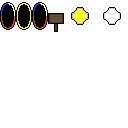
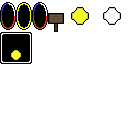
World transitions

Changed region(s): [[0.0, 0.25, 0.25, 0.5]]

diff --git a/Scripts/Global/GameState.cs b/Scripts/Global/GameState.cs
@@ -9,7 +9,7 @@ public partial class GameState : Node
     // Level loader stuff
     private readonly string levelsPathStart = "res://Scenes/Worlds/";
     private readonly Dictionary<WorldID, string[]> levels = new() { // Turn this to json?
-        { WorldID.PurpleForest, new string[] { "HUB", "0", "1", "2" } },
+        { WorldID.PurpleForest, new string[] { "HUB", "0", "1", "2", "3", "4", "5" } },
         { WorldID.DistantShoreline, new string[] { "HUB", "0" } } 
     };
 
@@ -24,7 +24,7 @@ public partial class GameState : Node
     public Dictionary<WorldID, Dictionary<string, bool>> CompletedLevels { get; private set; } = new(); // Initialized in _Ready if first game launch, or from save
 
     public WorldID CurrentWorld { get; private set; } = WorldID.PurpleForest;
-    public string CurrentLevel { get; private set; } = "HUB"; // Current level ID
+    public string CurrentLevel { get; private set; } = "0"; // Current level ID
     public Vector2 PlayerHubPosition { get; set; } = Vector2.Zero; // Updated in LevelTeleport
 
 
@@ -32,11 +32,12 @@ public partial class GameState : Node
     public int NoCompletedLevels { get; private set; } = 0;
     public bool IsGamePaused { get; set; } = false; // Pause is set in pause menu
     public bool IsLevelTransitionPlaying { get; set; } = false;
+    public WorldID PreviousWorld { get; private set; }
 
 
     // METHODS ===========================================================================================================
     private CustomSignals customSignals; // singleton
-    public override void _Ready()
+    public override void _EnterTree()
     {
         customSignals = GetNode<CustomSignals>("/root/CustomSignals");
 
@@ -53,6 +54,9 @@ public partial class GameState : Node
                     CompletedLevels[world.Key].Add(levelID, false);
             }
         }
+
+        // Initialize previous world, TODO: do this in save file
+        PreviousWorld = CurrentWorld;
     }
 
     public void CompleteCurrentLevel()
@@ -79,8 +83,11 @@ public partial class GameState : Node
 
     public void LoadWorld(WorldID world)
     {
+        PreviousWorld = CurrentWorld;
         CurrentWorld = world;
         LoadLevel("HUB");
+        // World enter player position set in WorldEntrance because it was easier that way
+        WorldEntrance.setPlayerWorldEnterPosition = true;
     }
 
     public void LoadLevel(string id)
@@ -97,15 +104,15 @@ public partial class GameState : Node
     public void LoadHubLevel()
     {
         LoadLevel("HUB");
-        SetPlayerHubPosition();
+        SetPlayerPosition(PlayerHubPosition);
     }
 
-    private async void SetPlayerHubPosition()
+    public async void SetPlayerPosition(Vector2 position)
     {
-        if (PlayerHubPosition == Vector2.Zero) return;
+        if (position == Vector2.Zero) return;
         await ToSignal(GetTree(), "process_frame");
-        customSignals.EmitSignal(CustomSignals.SignalName.SetPlayerPosition, PlayerHubPosition);
-        customSignals.EmitSignal(CustomSignals.SignalName.SetCameraPosition, PlayerHubPosition);
+        customSignals.EmitSignal(CustomSignals.SignalName.SetPlayerPosition, position);
+        customSignals.EmitSignal(CustomSignals.SignalName.SetCameraPosition, position);
     }
 
     public void LoadMenu()

diff --git a/Scripts/Entities/Interactable/WorldEntrance.cs b/Scripts/Entities/Interactable/WorldEntrance.cs
@@ -5,22 +5,26 @@ using System;
 public partial class WorldEntrance : Interactable
 {
     // Singletons
-    private CustomSignals customSignals;
+    //private CustomSignals customSignals;
     private GameState gameState;
     private LevelTransitions levelTransitions;
 
     private AnimatedSprite2D outlineSprite;
+    private Node2D playerRespawnPosition;
 
     [Export] WorldData worldToTeleportTo;
+
+    public static bool setPlayerWorldEnterPosition = false;
 
     public override void _Ready()
     {
         base._Ready();
 
-        customSignals = GetNode<CustomSignals>("/root/CustomSignals");
+        //customSignals = GetNode<CustomSignals>("/root/CustomSignals");
         gameState = GetNode<GameState>("/root/GameState");
         levelTransitions = GetNode<CanvasLayer>("/root/Transitions") as LevelTransitions;
         outlineSprite = GetNode<AnimatedSprite2D>("Foreground");
+        playerRespawnPosition = GetNode<Node2D>("PlayerRespawnPosition");
 
         if (gameState.HasWorldBeenCompleted(worldToTeleportTo.ID)) // Yellow outline
         {
@@ -30,18 +34,21 @@ public partial class WorldEntrance : Interactable
         {
             outlineSprite.Play("NotCompleted");
         }
+
+        // Change player position according to world they are coming from
+        // setPlayerWorldEnterPosition set to true in GameState
+        if (setPlayerWorldEnterPosition && worldToTeleportTo.ID == gameState.PreviousWorld)
+        {
+            setPlayerWorldEnterPosition = false;
+            gameState.SetPlayerPosition(playerRespawnPosition.GlobalPosition);
+        }
     }
 
     protected override void Interact()
     {
         base.Interact();
 
-        gameState.LoadWorld(worldToTeleportTo.ID);
+        levelTransitions.StartWorldTransition(worldToTeleportTo);
     }
 
-    protected override void PlayerExited()
-    {
-        base.PlayerExited();
-
-    }
 }

diff --git a/Scripts/UI/LevelTransitions.cs b/Scripts/UI/LevelTransitions.cs
@@ -9,7 +9,10 @@ public partial class LevelTransitions : CanvasLayer
 
     [Export] private Label levelTextTopLabel;
     [Export] private Label levelTextBottomLabel;
+
     private LevelData transitionLevel;
+    private WorldData transitionWorld;
+
     private ScreenTransition currentTransition;
 
 	public override void _Ready()
@@ -72,6 +75,19 @@ public partial class LevelTransitions : CanvasLayer
         animationPlayer.Play("LevelExit");
     }
 
+    public void StartWorldTransition(WorldData worldToTransitionTo)
+    {
+        currentTransition = ScreenTransition.worldEntry;
+        gameState.IsLevelTransitionPlaying = true;
+        transitionWorld = worldToTransitionTo;
+        Show();
+
+        levelTextBottomLabel.Show();
+        levelTextBottomLabel.Text = worldToTransitionTo.Name;
+
+        animationPlayer.Play("LevelExit");
+    }
+
     void _onAnimationPlayerAnimationFinished(string animationName)
 	{
         if (animationName == "LevelExit") // End of first part of transition
@@ -92,6 +108,10 @@ public partial class LevelTransitions : CanvasLayer
 
                 case ScreenTransition.levelEntry:
                     gameState.LoadLevel(transitionLevel.ID);
+                    EndLevelTransitionAfterSeconds(1.5f); break;
+
+                case ScreenTransition.worldEntry:
+                    gameState.LoadWorld(transitionWorld.ID);
                     EndLevelTransitionAfterSeconds(1.5f); break;
             }
         }

diff --git a/Scripts/Player/Player.cs b/Scripts/Player/Player.cs
@@ -301,7 +301,8 @@ public partial class Player : CharacterBody2D
 
     private void UpdateAnimation(Vector2 direction)
 	{
-		if (IsFrozen) return;
+		if (gameState.IsLevelTransitionPlaying && !isDying) animatedSprite.Play("Idle"); // Level transition animation
+        if (IsFrozen) return;
 
 		// change direction facing
 		if (!isExecutingAbility) // you can change direction after you started ability before it executed for input leniency

diff --git a/Scripts/Global/GlobalTypes.cs b/Scripts/Global/GlobalTypes.cs
@@ -6,5 +6,5 @@ namespace GlobalTypes
     //public enum InteractableType { teleport, checkpoint, sign, entrance }; // checkpoint is also a teleport that brings you back
     //public enum Direction { left, right, up, down };
 
-    public enum ScreenTransition { restart, hubEntry, levelEntry, hubEntryCompleted };
+    public enum ScreenTransition { restart, hubEntry, levelEntry, hubEntryCompleted, worldEntry };
 }

diff --git a/Scripts/UI/MainMenu.cs b/Scripts/UI/MainMenu.cs
@@ -23,7 +23,6 @@ public partial class MainMenu : ButtonManager
             {
                 // TODO: New game save resource
                 gameState.LoadWorld(WorldID.PurpleForest); // TEMPORARY
-                gameState.LoadHubLevel(); // TEMPORARY
             }
             if (CurrentButtonIndex == 1) // continue
             {

diff --git a/Scripts/Global/CustomSignals.cs b/Scripts/Global/CustomSignals.cs
@@ -31,4 +31,5 @@ public partial class CustomSignals : Node
 
     [Signal]
     public delegate void DialogBoxHideEventHandler();
+
 }
